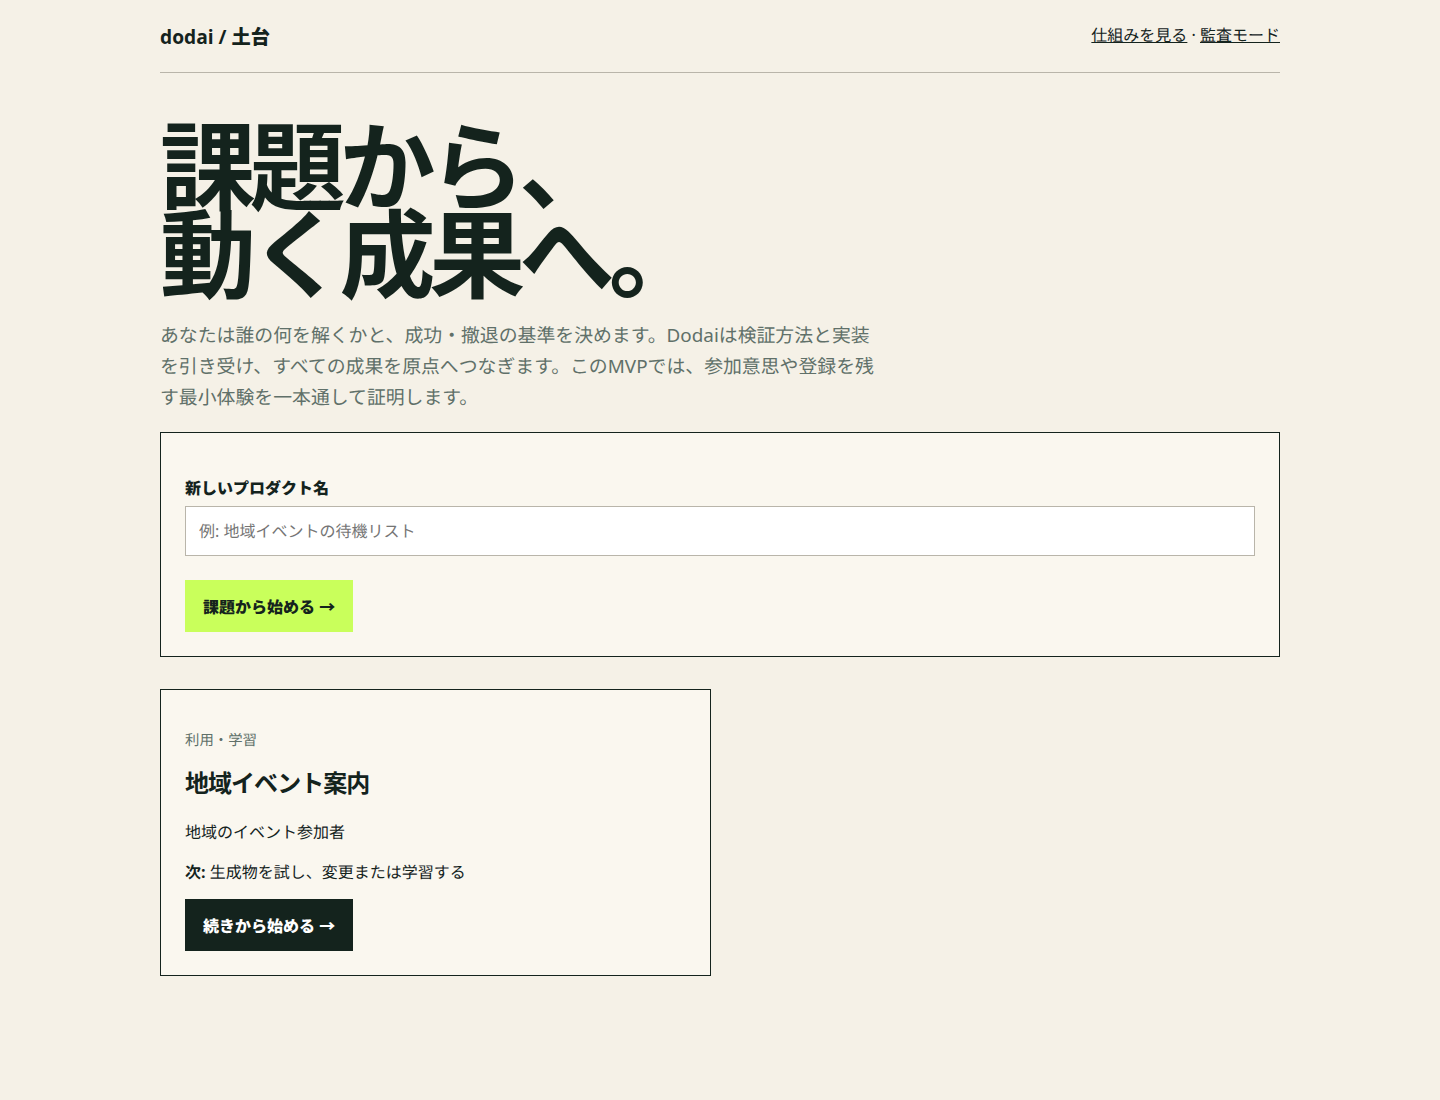
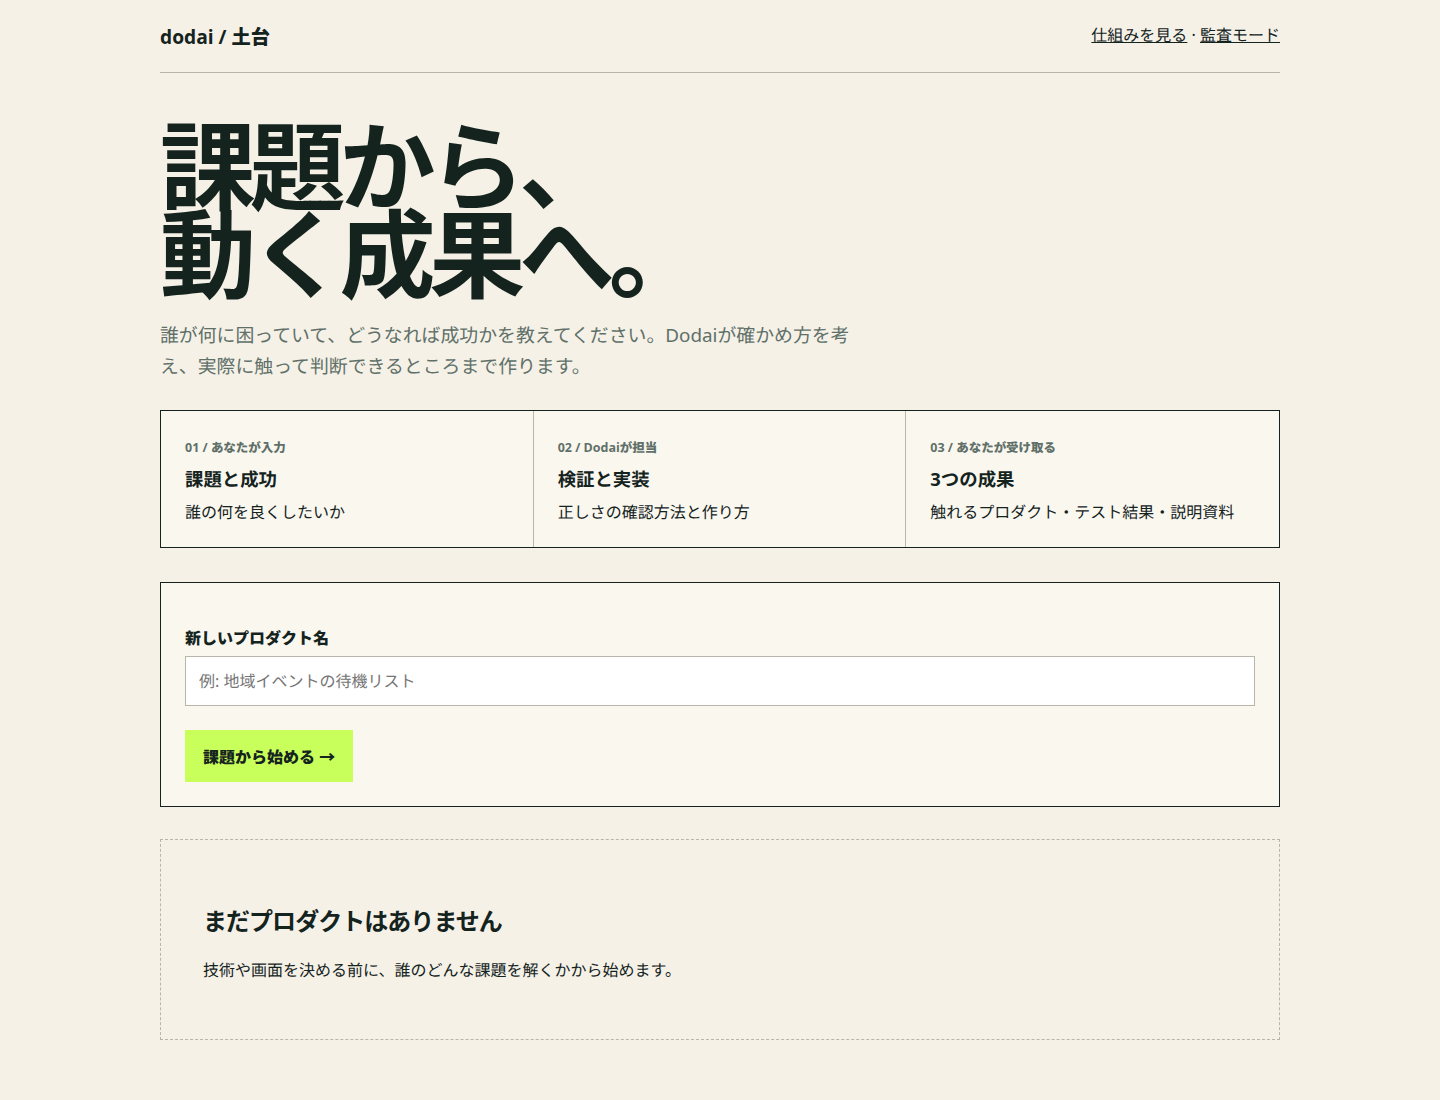
docs: align the product story with lightweight guidance

diff --git a/submission/DEMO_SCRIPT.md b/submission/DEMO_SCRIPT.md
@@ -17,14 +17,16 @@ Briefly enter a solution term to show the intent-recovery question.
 
 ## 0:20–0:55 — Outcomes and verification approval
 
-**Screen:** Define one business term, the outcome, guardrail, exit condition, and
-minimal journey. Show the proposed verification and approve layer four.
+**Screen:** Describe observable improvement and what the person does first and
+receives last. Briefly show that product-specific language is optional. Review
+the three-part verification explanation and approve it.
 
 **Narration:**
 
-> I own vocabulary, pain, and falsifiable outcomes. dodai owns how to verify them.
-> Every outcome, guardrail, and exit condition has observable verification, and no
-> implementation begins until I explicitly approve layer four.
+> I describe the person, pain, observable improvement, and the experience from first
+> action to result. dodai owns the operational thresholds and how to verify the
+> outcome. Before implementation, I can read what I decided, what dodai will check,
+> and what approval will produce—without internal identifiers or test notation.
 
 ## 0:55–1:30 — Informed GPT-5.6 generation and runnable result
 

diff --git a/README.md b/README.md
@@ -15,8 +15,9 @@ files:
 
 1. Name a product bet and describe its actor and pain in Japanese.
 2. Detect prescribed How and recover the intended outcome before it reaches a story.
-3. Define business vocabulary, success, a guardrail, and an exit condition.
-4. Review complete layer-four verification before projection work begins.
+3. Describe observable success and what the person does first and receives last.
+   Dodai owns operational defaults; product-specific language is optional context.
+4. Review a plain-language explanation of intent, checks, and what approval starts.
 5. Review the model-request maximum, cost guardrail, and cache state, then consent.
 6. Experience executable behavior, behavioral verification, and stakeholder meaning.
 7. Request a plain-language change and approve or reject its complete impact.
@@ -81,7 +82,7 @@ bash scripts/demo-web.sh
 ```
 
 Open <http://127.0.0.1:8000>. Create a product bet and complete the guided flow
-from pain through outcomes, verification approval, informed generation,
+from pain through success, verification approval, informed generation,
 runnable result, governed change, and telemetry learning. `demo-web.sh` uses the
 inspectable sample provider, so the complete journey requires no credential and
 makes no API request. Product-bet state is resumable under ignored

diff --git a/docs/PRODUCT_JOURNEY.md b/docs/PRODUCT_JOURNEY.md
@@ -11,10 +11,10 @@ digests, pins, and raw projection files remain available in audit mode.
 
 | Stage | Product-owner action | Dodai responsibility | Executable evidence |
 | --- | --- | --- | --- |
-| Portfolio | Create, find, and resume a product bet | Preserve stage, next decision, and recoverable error | `test_home_starts_and_resumes_multiple_product_bets` |
+| Portfolio | See what to provide, what Dodai owns, and the three resulting artifacts; create, find, and resume a product | Preserve stage, next decision, and recoverable error | `test_home_starts_and_resumes_multiple_product_bets` |
 | Problem | Describe the actor and pain | Detect prescribed How and recover the intended outcome | `test_solution_vocabulary_returns_discovery_to_intended_outcome` |
-| Outcomes | Define one business term, success, guardrail, exit, and minimal journey | Produce valid origin layers one through three | `test_verification_review_shows_approved_meaning_and_can_return_for_revision` |
-| Verification | Review and approve observable verification | Cover every active outcome before generation | `test_verification_review_shows_approved_meaning_and_can_return_for_revision` |
+| Outcomes | Describe observable improvement and the person's first action through final result; optionally clarify one product-specific term | Apply operational defaults and produce valid origin layers one through three without exposing those mechanics | `test_outcome_questions_are_lightweight_and_operational_defaults_are_internal` |
+| Verification | Review intent, observable checks, and what approval starts in decision language | Cover every active outcome before generation without exposing internal identifiers or verification notation | `test_verification_review_shows_approved_meaning_and_can_return_for_revision` |
 | Generation plan | Inspect projection work, request maximum, cost guardrail, and cache status | Remain stopped until explicit consent and claim one generation under concurrent submission | `test_generation_requires_consent_and_never_requests_same_identity_twice`, `test_concurrent_generation_submissions_claim_one_model_request` |
 | Progress | Leave or revisit while generation runs | Persist progress and move to success or recoverable failure | `test_generation_progress_is_visible_and_survives_navigation` |
 | Result | Operate the generated product and read stakeholder meaning | Verify behavior and connect both roles to one origin identity | `test_keyless_sample_provider_completes_the_same_product_journey` |

diff --git a/submission/DEVPOST.md b/submission/DEVPOST.md
@@ -27,8 +27,10 @@ the boundaries between those layers.
 
 The product begins with a guided Japanese journey rather than an internal
 specification editor. A product owner names a bet, describes an actor and pain,
-recovers intent when solution vocabulary appears, defines business terms and
-falsifiable outcomes, and approves proposed verification before generation.
+recovers intent when solution vocabulary appears, describes observable success
+and the person's first action through final result, and approves proposed
+verification before generation. Operational thresholds remain Dodai-owned and
+product-specific language is collapsed optional context.
 Dodai shows the maximum model-request count, cost guardrail, and cache state
 before explicit consent.
 